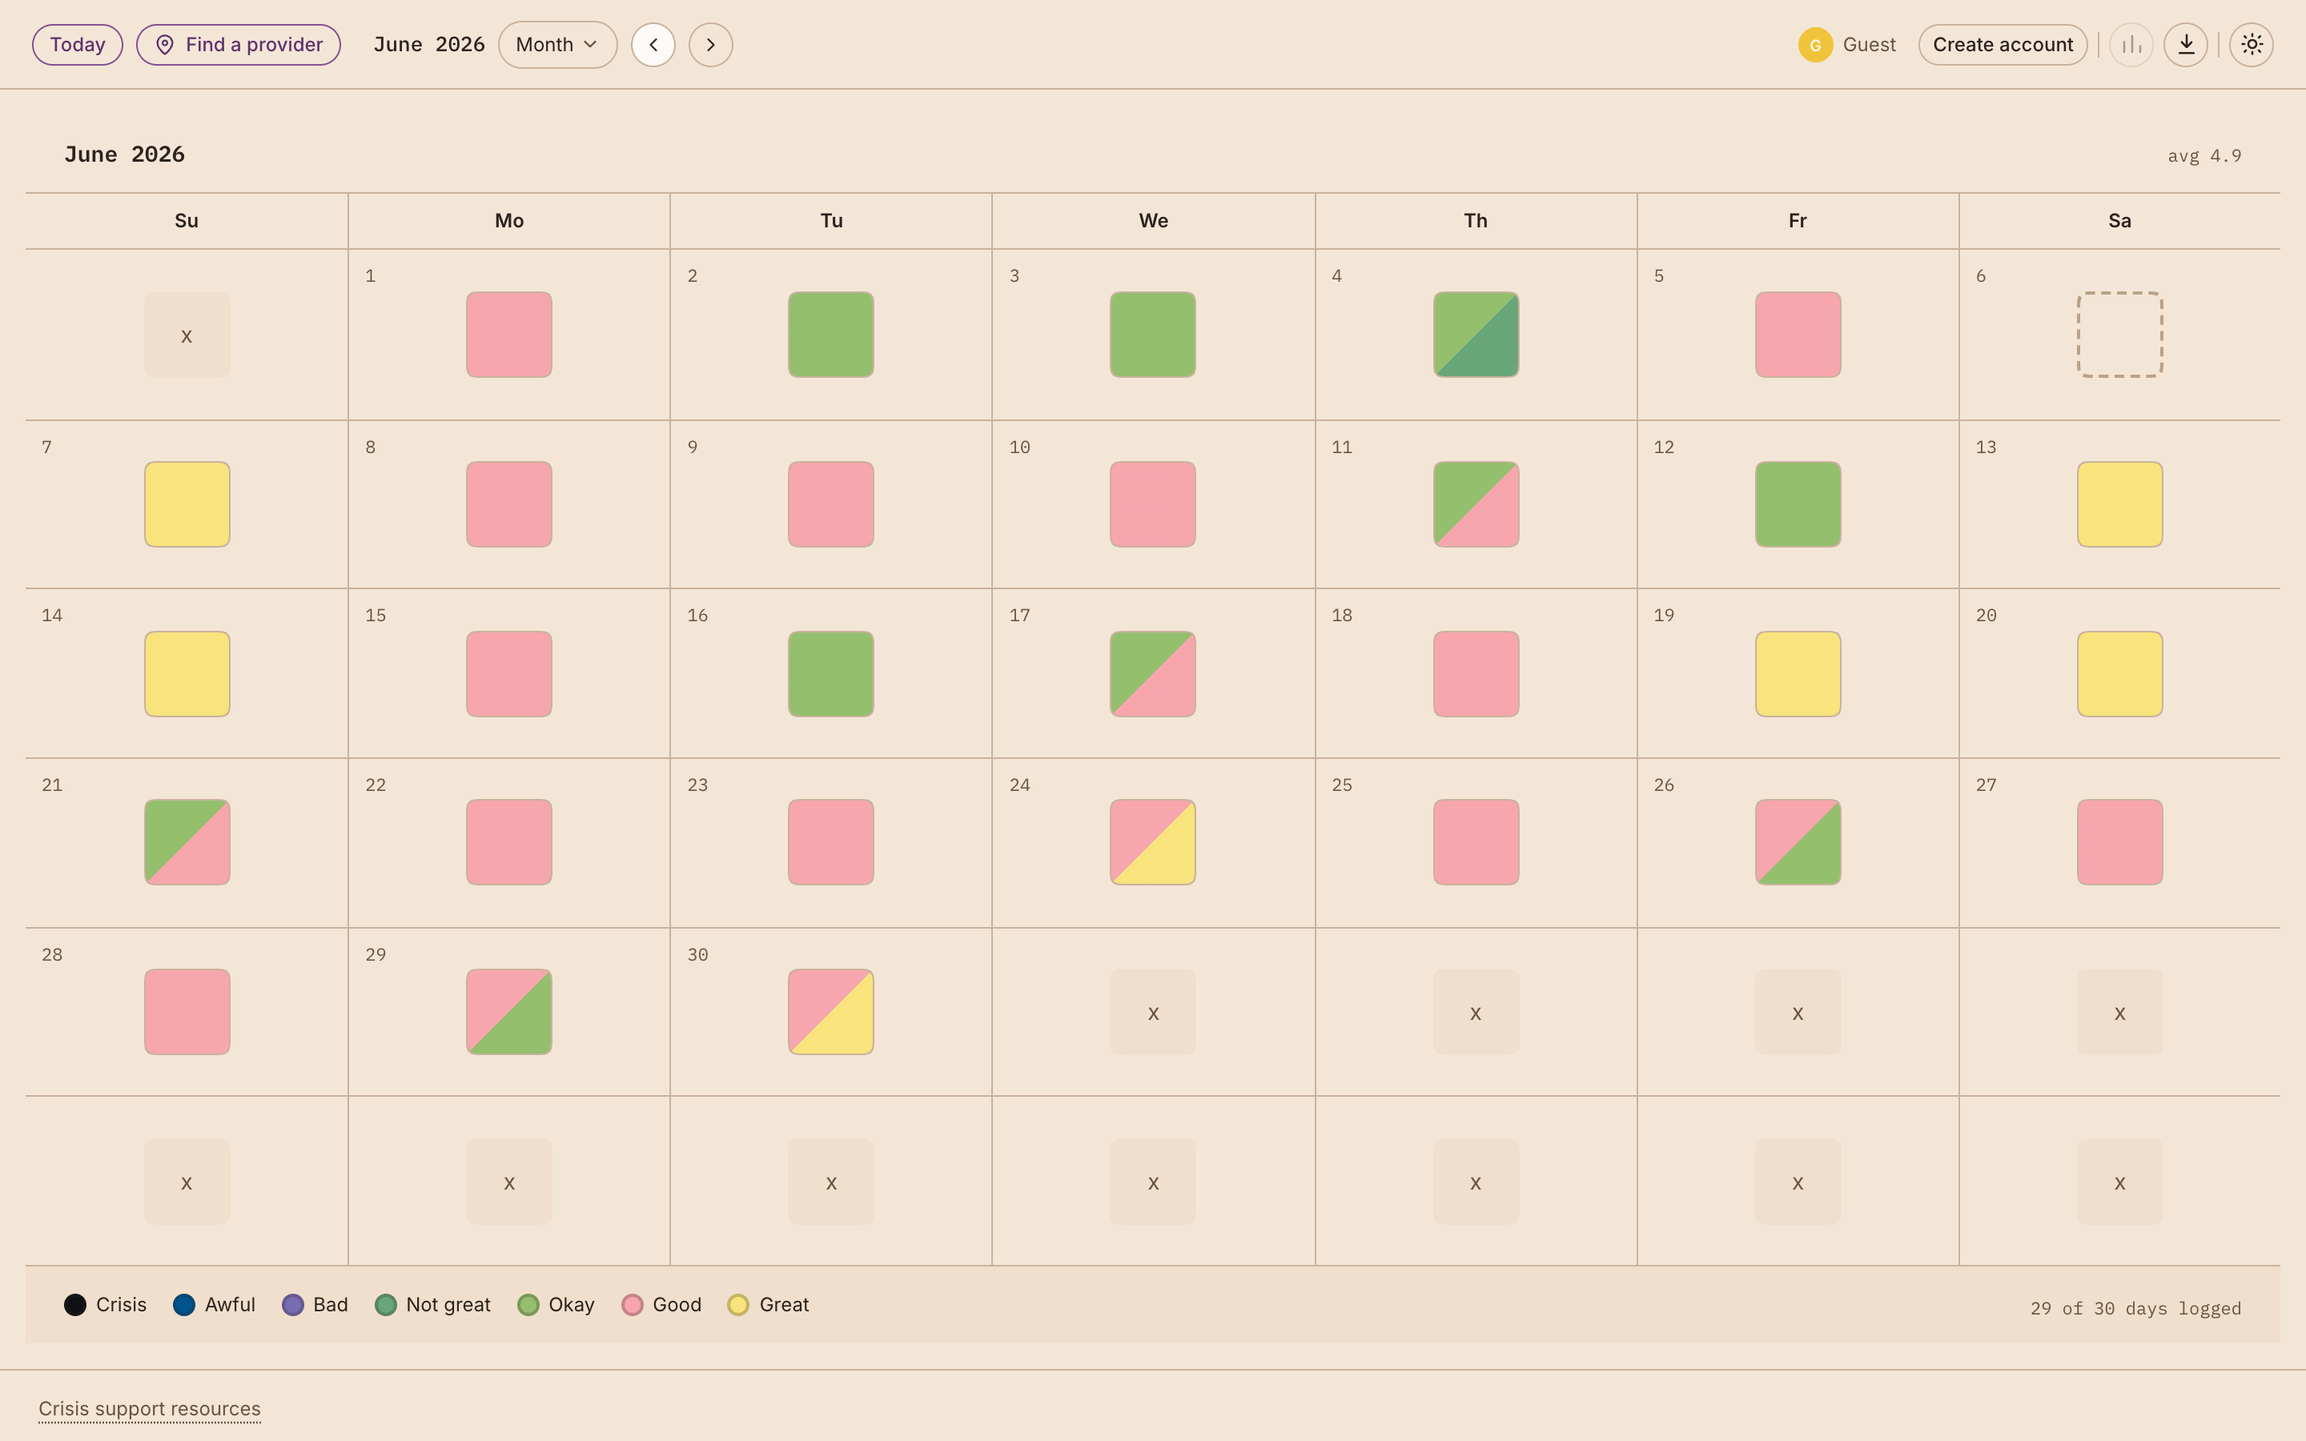
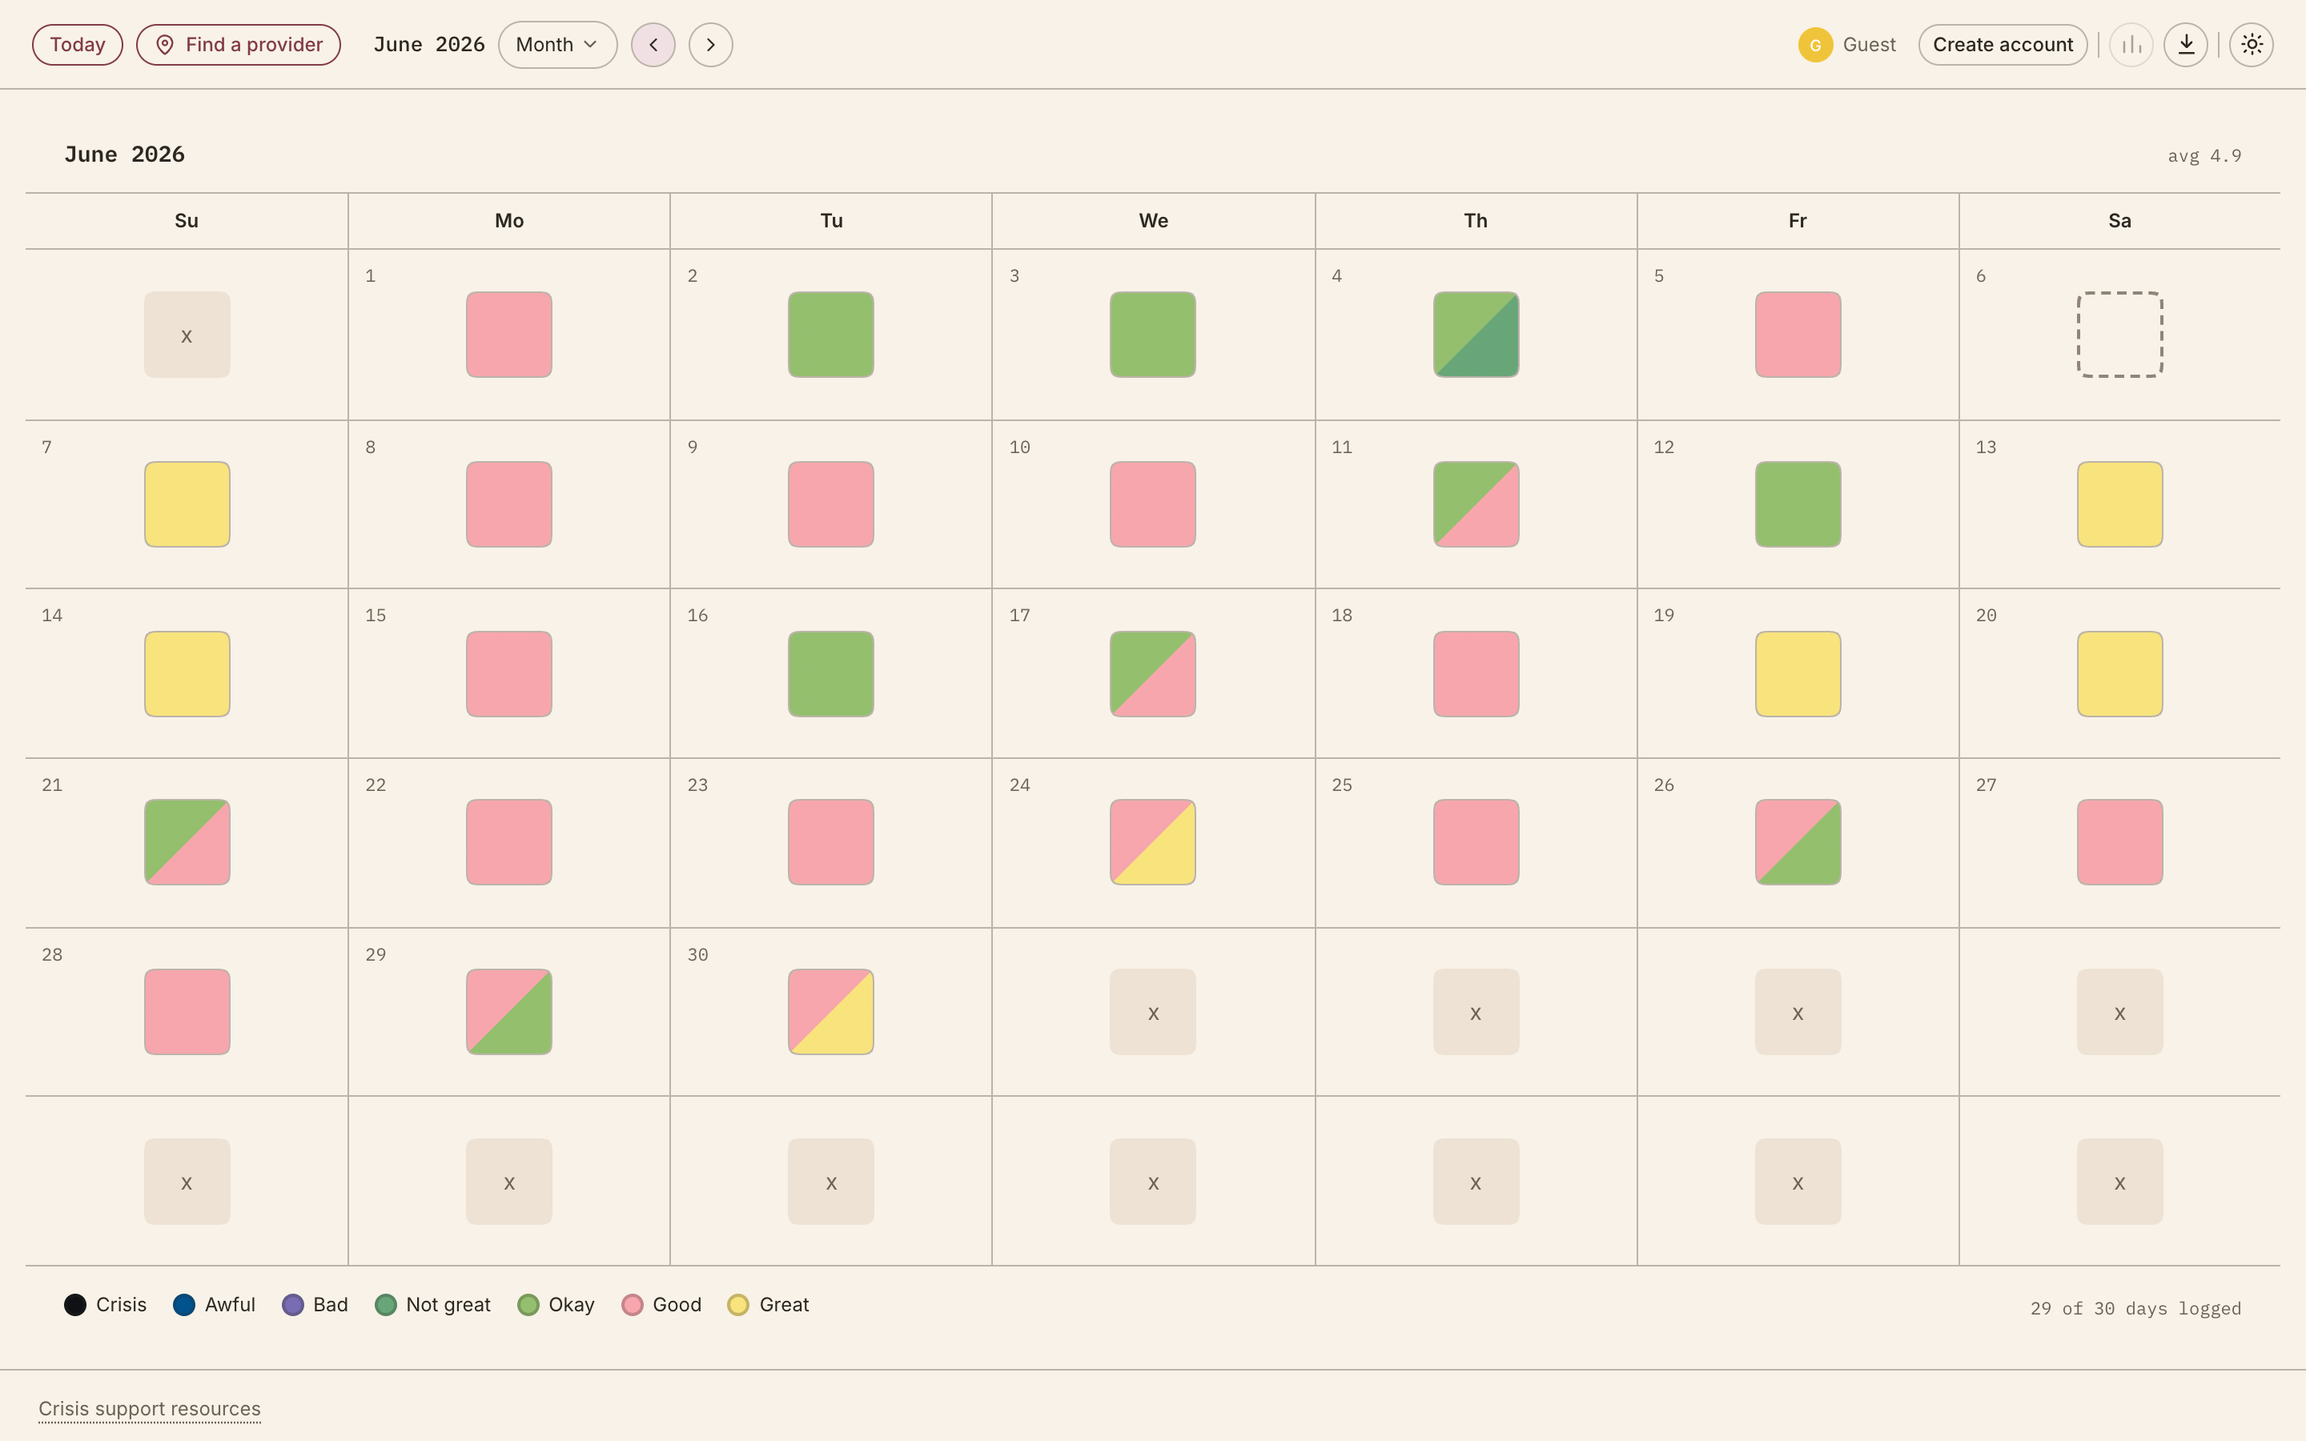
provider search and themeing

Changed region(s): [[0.0, 0.8711, 1.0, 0.9333], [0.2812, 0.0, 0.3125, 0.0622]]

diff --git a/src/styles/global.css b/src/styles/global.css
@@ -17,73 +17,82 @@
 :root {
   color-scheme: light dark;
 
-  /* ── Light — "Pearled Ivory" ───────────────────────────────────────────
-     Taken from the app's globals.css, value for value. The reasoning lives
-     there and is not duplicated here; the short version is that the palette
-     is anchored on PANTONE 11-0907 TCX Pearled Ivory (#F0DFCC), which is
-     --band exactly, and everything else is derived from it at hue 30–32 so
-     paper, hairlines and ink are one family. Only the accent leaves it.
+  /* ── Light — "Cotton Letterpress" ──────────────────────────────────────
+     Taken from the app's globals.css, value for value, exported as
+     humeur-theme-cotton-letterpress.json. The reasoning lives there and is
+     not duplicated here; the short version is that the paper warmed and
+     flattened — the family now sits at hue 32–40 with far less chroma in the
+     hairlines — and the accent left plum for claret.
 
      If a value here disagrees with the app, the app wins — this is the copy.
 
-     The previous palette was a separate warm-gold direction at hue 38–40.
-     Nothing about it was wrong on its own; it just wasn't the product's. */
-  --background: 32 55% 90%; /* #F4E6D7 — the sheet */
-  --surface: 32 60% 98%; /* #FDFAF7 — cards, panels, screenshot frames */
-  --border: 30 30% 70%; /* #C9B39C */
-  --border-strong: 30 26% 54%; /* #A88A6B */
-  --foreground: 28 20% 14%; /* #2B231D — 12.60:1 on --background */
+     The previous palette was "Pearled Ivory": a cooler sheet at hue 30–32
+     anchored on PANTONE 11-0907 TCX, with a plum accent. Nothing about it was
+     wrong on its own; it just isn't the product's any more. */
+  --background: 39 52% 94%; /* #F8F2E8 — the sheet */
+  --surface: 40 45% 97%; /* #FBF8F4 — cards, panels, screenshot frames */
+  --border: 32 12% 70%; /* #BCB3A9 — 1.86:1 on the sheet, ON PURPOSE */
+  --border-strong: 30 14% 38%; /* #6E6153 — 5.39:1 on the sheet */
+  --foreground: 35 15% 15%; /* #2C2721 — 13.26:1 on --background */
 
-  /* One muted token, not two.
-     The old split existed because the app's --muted-foreground was 40 20% 48%
-     — 3.28:1 on the sheet, under AA for the 14–15px secondary copy that is
-     most of this page — so the site carried a darker second token beside it
-     and used that almost everywhere. The app has since fixed the token at
-     source: 30 24% 33% measures 5.85:1 on --background, 6.89:1 on --surface,
-     5.50:1 on --band. The workaround has nothing left to work around, so it
-     is gone and its 61 call sites now read --muted-foreground. */
-  --muted-foreground: 30 24% 33%; /* #685440 */
+  /* One muted token, not two. The app fixed the split at source and this
+     site followed; 33 11% 38% measures 5.37:1 on --background, 5.64:1 on
+     --surface, 4.66:1 on --band — AA at every size this page uses it. */
+  --muted-foreground: 33 11% 38%; /* #6C6256 */
 
-  /* Same value as --surface, from the app: hovering something on the sheet
-     lifts it to the colour a panel already is, rather than inventing a wash
-     of its own. Paper-coloured fills read --band instead. */
-  --accent-surface: 32 60% 98%; /* #FDFAF7 */
+  /* NO LONGER A COPY OF --surface. The app now ships a real accent-surface:
+     the accent's soft form, for selected states and washes, not a tint of
+     the paper. Anything that wanted paper-coloured fill reads --band. */
+  --accent-surface: 350 35% 91%; /* #F0E0E3 — accent 6.23:1, foreground 11.61:1 */
   /* The step off --surface, for hovers on things that already sit on it. */
-  --surface-hover: 32 50% 91%; /* #F4E9DD */
+  --surface-hover: 38 28% 91%; /* #EEEAE2 */
 
-  /* ── Accent — plum, not gold ──────────────────────────────────────────
-     The single largest visible change. The old accent was #F2B84B, a gold
-     that could only ever be a border or a fill: about 1.7:1 on --surface,
-     nowhere near type. Plum is the same hue family as dark mode's lavender
-     taken down to ink weight, so the accent is now ONE colour with a light
-     and a dark form rather than two unrelated ones. */
-  --accent: 288 28% 44%; /* #835190 — 5.70:1 on --surface, 4.84:1 on the sheet */
-  --accent-text: 288 36% 31%; /* #60336C — 9.23:1 on --surface */
+  /* ── Accent — claret, not plum ─────────────────────────────────────────
+     Still ONE colour with a light and a dark form: claret red in light,
+     lavender in dark. In light it is dark enough to be type — 7.48:1 on
+     --surface, 7.09:1 on the sheet.
+
+     It is a RED now, and it sits near --danger and --crisis in hue. They
+     separate on lightness and chroma, not hue, so a red control on this page
+     no longer reads as self-evidently destructive. Every destructive or
+     cautionary affordance here has to carry a label, not just a colour. */
+  --accent: 352 37% 37%; /* #813B45 */
+
+  /* "The accent, dark enough to BE type on a light surface" — NOT "text on
+     the accent fill". Same value as --accent, exactly as the app has it.
+     (The palette file this came from uses the name to mean the opposite; its
+     accent-text is a near-white. Do not take the value from there.) */
+  --accent-text: 352 37% 37%; /* #813B45 */
 
   /* What goes ON --accent. The app has no such token because nothing there
      fills with the accent and puts type on it; this site's primary button
-     does. It flipped with the accent: dark ink was correct on gold and would
-     be 1.9:1 on plum, so it is now the near-white plate. 5.70:1. */
-  --on-accent: 32 60% 98%; /* #FDFAF7 */
+     does. Plain white, which is what the app uses where it does need one:
+     7.94:1 on the claret. Not --accent-text — that would be claret on
+     claret. Not --surface either: 7.50:1 is fine, but the app's answer is
+     white and matching it is the point of this file. */
+  --on-accent: 0 0% 100%; /* #FFFFFF — 7.94:1 on --accent */
 
   /* ── Band ──────────────────────────────────────────────────────────────
-     The Pearled Ivory swatch itself, and the app's tint for full-bleed
-     strips — toolbar, legend, crisis. Here it paints the header rails on
-     panels and screenshot frames, which are the same kind of object. A
-     half-step off --background on purpose: --surface is a raised plate,
-     this is a tint of the paper. */
-  --band: 32 55% 87%; /* #F0DFCC — PANTONE 11-0907 TCX, exactly */
+     Bands are FLAT in the app now: toolbar, legend and crisis strips share
+     --background and are separated by a border-t alone. The token survives
+     only as a paper-coloured FILL for small things — disabled cells, inline
+     code. Here that is the header rails on panels and screenshot frames, and
+     .prose code. It must not come back as a full-bleed section tint. */
+  --band: 33 40% 88%; /* #EDE2D4 — muted-foreground 4.66:1, foreground 11.58:1 */
 
-  --danger: 353 60% 43%; /* #AF2C3B — 4.97:1 on --band, the thinnest in the set */
+  --danger: 4 60% 38%; /* #9B2F27 — 6.68:1 on --background, 7.01:1 on --surface */
 
-  /* Reserved for crisis-helpline surfaces. Nothing else may use it.
-     --crisis matches the app; the two -surface/-border tokens are this
-     site's own, for the crisis card, and were re-measured against the new
-     palette rather than assumed: --crisis is 6.53:1 on --crisis-surface and
-     --foreground 13.34:1. */
-  --crisis: 0 85% 36%; /* #AA0E0E */
-  --crisis-surface: 0 60% 95%; /* #FAEBEB */
-  --crisis-border: 0 55% 82%; /* #EAB8B8 */
+  /* Reserved for crisis-helpline surfaces. Nothing else may use it, and it is
+     never decorative. --crisis matches the app; the two -surface/-border
+     tokens are this site's own, for the crisis card, and have no counterpart
+     in the app to copy. They were rotated from hue 0 to the new --crisis hue
+     338 so the card and its heading stay one family, holding their previous
+     lightness and their previous relationship to the sheet (1.03:1, was
+     1.04:1). Re-measured, not assumed: --crisis is 8.70:1 on --crisis-surface
+     and --foreground 12.95:1. */
+  --crisis: 338 63% 30%; /* #7D1C40 — 8.94:1 on --background */
+  --crisis-surface: 338 45% 95%; /* #F8EDF1 */
+  --crisis-border: 338 45% 82%; /* #E6BCCC — 1.48:1 on --crisis-surface */
 
   --radius: 1rem;
 
@@ -110,16 +119,21 @@
    mode — navy, not a dark version of the warm linen — to echo sunrise
    (warm/day) against moonrise (cool/night).
 
-   The accent no longer flips hue family here: light plum and dark lavender
-   are the same colour at opposite ends of the range, the way --danger
-   already was. --accent-text is the same value as --accent in this theme
-   (the lavender is already 6.87:1 on --background, so accent-as-type needs
-   no darker twin); it is declared anyway so the token resolves in both.
+   Unchanged by the light rework — verified value for value against the
+   Cotton Letterpress export, not assumed. The accent is one colour with a
+   light and a dark form: claret in light, lavender here. --accent-text is
+   the same value as --accent in this theme (the lavender is already 6.87:1
+   on --background, so accent-as-type needs no darker twin); it is declared
+   anyway so the token resolves in both.
 
    The two site-only tokens are --on-accent and the crisis card's
-   -surface/-border pair. --on-accent stays --background: on lavender that
-   measures 6.87:1, and it is the one token that has to point the opposite
-   way in each theme.
+   -surface/-border pair. --on-accent stays --background here: 6.87:1 on the
+   lavender. It is the one token that points the opposite way in each theme —
+   white on the light claret, near-black on the dark lavender.
+
+   The crisis card's pair is NOT symmetrical with light any more: light was
+   rotated to hue 338 to follow the app's new --crisis, dark keeps hue 0
+   because dark --crisis never moved.
 
    THE TWO BLOCKS BELOW ARE THE SAME LIST TWICE, and have to stay in step —
    one covers "the OS says dark and nothing overrode it", the other "the
@@ -132,8 +146,8 @@
   :root:not([data-theme="light"]) {
     --background: 228 24% 12%; /* #171A26 */
     --surface: 227 18% 16%; /* #212530 */
-    --border: 227 16% 22%; /* #2E3240 */
-    --border-strong: 225 14% 27%; /* #3B404F */
+    --border: 227 16% 22%; /* #2F3341 */
+    --border-strong: 225 14% 27%; /* #3B404E */
     --foreground: 230 20% 94%; /* #EDEEF3 — 14.95:1 on --background */
     --muted-foreground: 230 11% 61%; /* #9194A6 — 5.77:1 on --background */
     --accent-surface: 227 18% 16%; /* #212530 — same as --surface, as in light */
@@ -152,8 +166,8 @@
 :root[data-theme="dark"] {
   --background: 228 24% 12%; /* #171A26 */
   --surface: 227 18% 16%; /* #212530 */
-  --border: 227 16% 22%; /* #2E3240 */
-  --border-strong: 225 14% 27%; /* #3B404F */
+  --border: 227 16% 22%; /* #2F3341 */
+  --border-strong: 225 14% 27%; /* #3B404E */
   --foreground: 230 20% 94%; /* #EDEEF3 — 14.95:1 on --background */
   --muted-foreground: 230 11% 61%; /* #9194A6 — 5.77:1 on --background */
   --accent-surface: 227 18% 16%; /* #212530 — same as --surface, as in light */
@@ -356,10 +370,14 @@
     color: hsl(var(--muted-foreground));
   }
 
+  /* --band, not --accent-surface. Inline code is exactly the "small
+     paper-coloured fill" the band token was kept for once the app stopped
+     painting strips with it; --accent-surface is now a real accent wash and
+     would tint every code span pink. */
   .prose code {
     font-family: var(--font-humeur-mono);
     font-size: 0.875em;
-    background: hsl(var(--accent-surface));
+    background: hsl(var(--band));
     border-radius: 0.25rem;
     padding: 0.125rem 0.3125rem;
   }

diff --git a/src/i18n/en-CA.ts b/src/i18n/en-CA.ts
@@ -27,6 +27,10 @@ export default {
     title: "Humeur — One day is a data point. Ninety days are a pattern.",
     description:
       "A mood journal that tracks the morning and the evening separately, in four views, with a printable summary for your doctor. Encrypted on your device. Free with no account.",
+    /** Describes the share card at public/og.png, for anyone whose reader
+     *  announces it. Not "share image" — say what is on it. */
+    ogImageAlt:
+      "Humeur, now in alpha: a mood journal quick enough to keep up with. Beside the wordmark, a year of mood squares in green, pink and yellow.",
   },
 
   nav: {
@@ -204,8 +208,6 @@ export default {
         key: "Capability",
         sub: "What it does",
         body: "Your entries are encrypted on your device before they're sent anywhere. What reaches the server is illegible — not by policy, but because the decryption key never leaves your device.",
-        aside:
-          "Open your browser's network tab and watch an entry save if you'd like to see for yourself.",
       },
       {
         key: "Getting back in",
@@ -250,15 +252,11 @@ export default {
   providers: {
     section: "Providers",
     heading: "And if you don't have a provider yet.",
-    lead: "Search by city or postal code: psychologists, psychiatrists, psychotherapists, counsellors, therapists, clinics, hospitals and addiction support. Filter by the kind of help you're after and by distance, from 5 km out to 125.",
+    lead: "Search by city or postal code. Filter by the kind of help you need and by distance, from 5 km out to 125.",
     panelLabel: "Provider search",
     panelMeta: "Example search",
-    // Reproduced from the foot of the dialog rather than paraphrased. It is
-    // the honest limit on the feature and belongs next to the claim.
     caption:
-      "Listings come from OpenStreetMap. Availability and details aren't verified — confirm with the provider before you go.",
-    close:
-      "Tracking, a pattern, someone to show it to, and a page to hand them",
+      "Listings are from OpenStreetMap. Availability and details aren't verified — confirm with the provider before you go.",
   },
 
   languages: {
